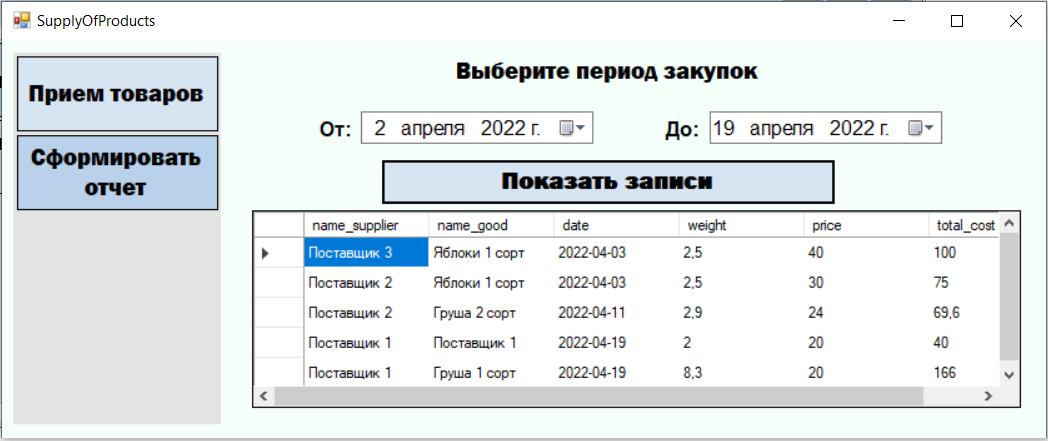
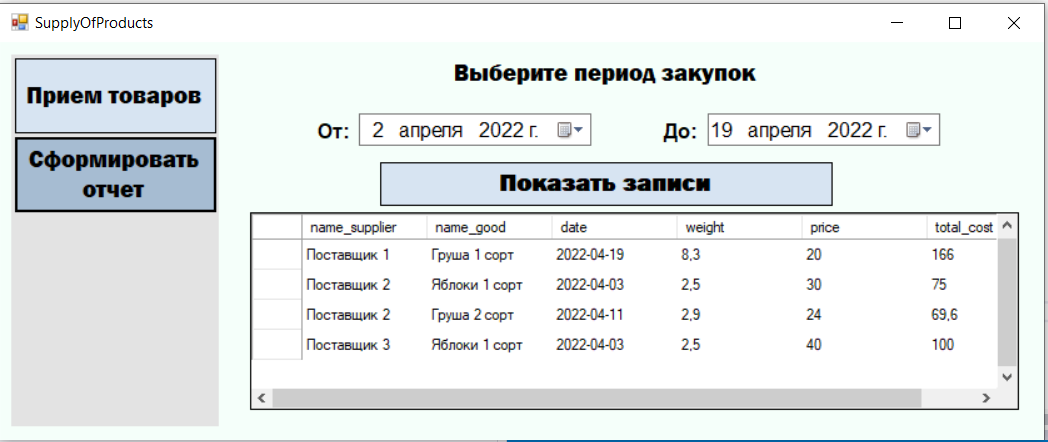
final_version_2

diff --git a/Supply_of _products/Supply_of _products/DataBaseService.cs b/Supply_of _products/Supply_of _products/DataBaseService.cs
@@ -128,7 +128,7 @@ namespace Supply_of__products
 			try
 			{
 				NpgsqlCommand com = new NpgsqlCommand("SELECT * FROM report_table WHERE date BETWEEN '" + start_date + "' AND '" 
-					+ end_date + "' ORDER BY date", nc);
+					+ end_date + "' ORDER BY name_supplier", nc);
 				nc.Open();  //ОpenConnection
 				NpgsqlDataReader reader;
 				reader = com.ExecuteReader();
